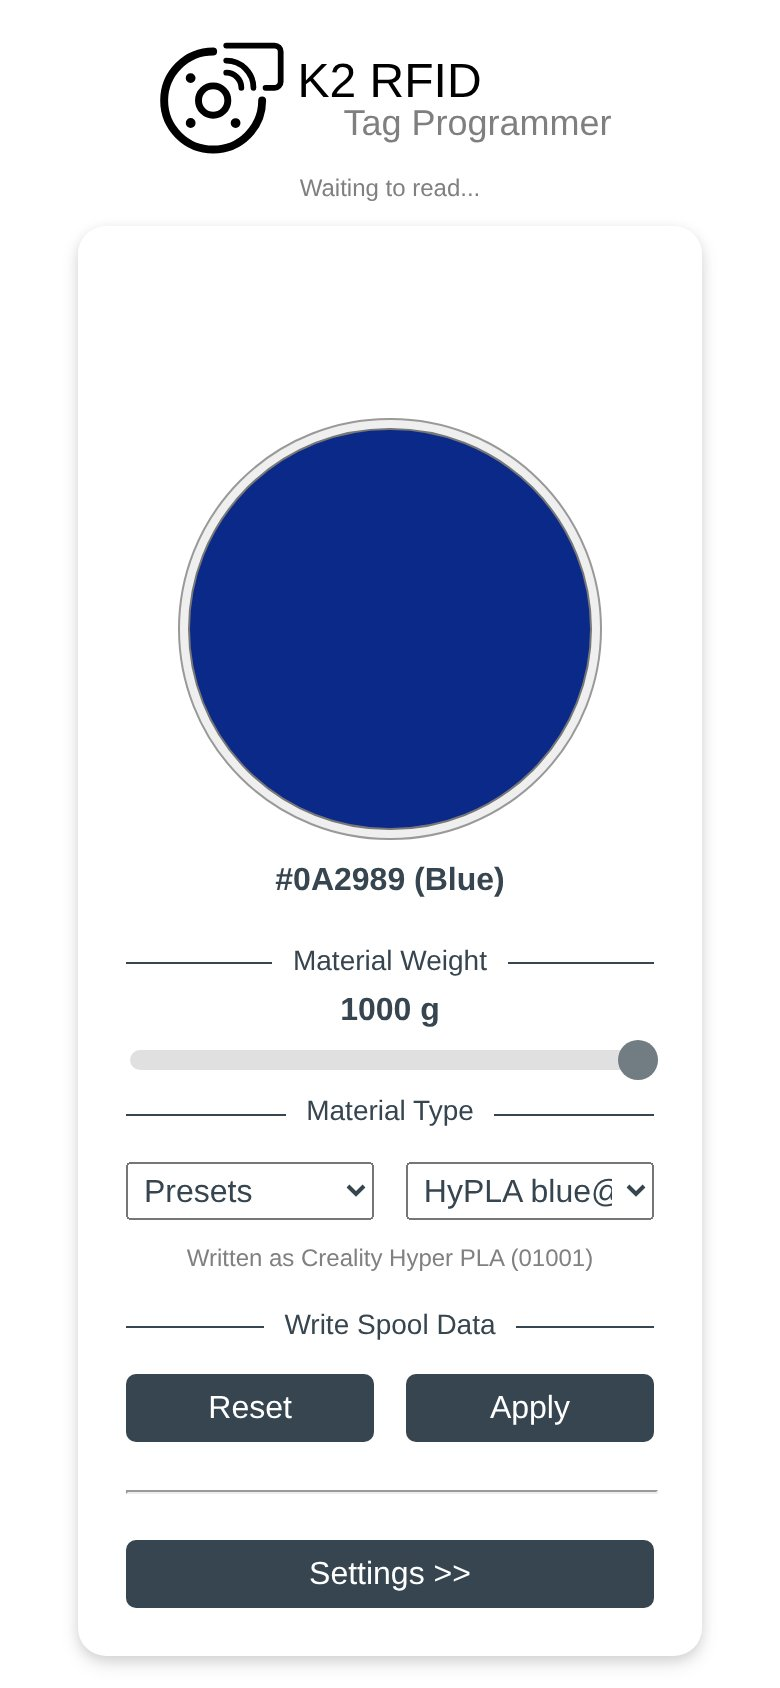
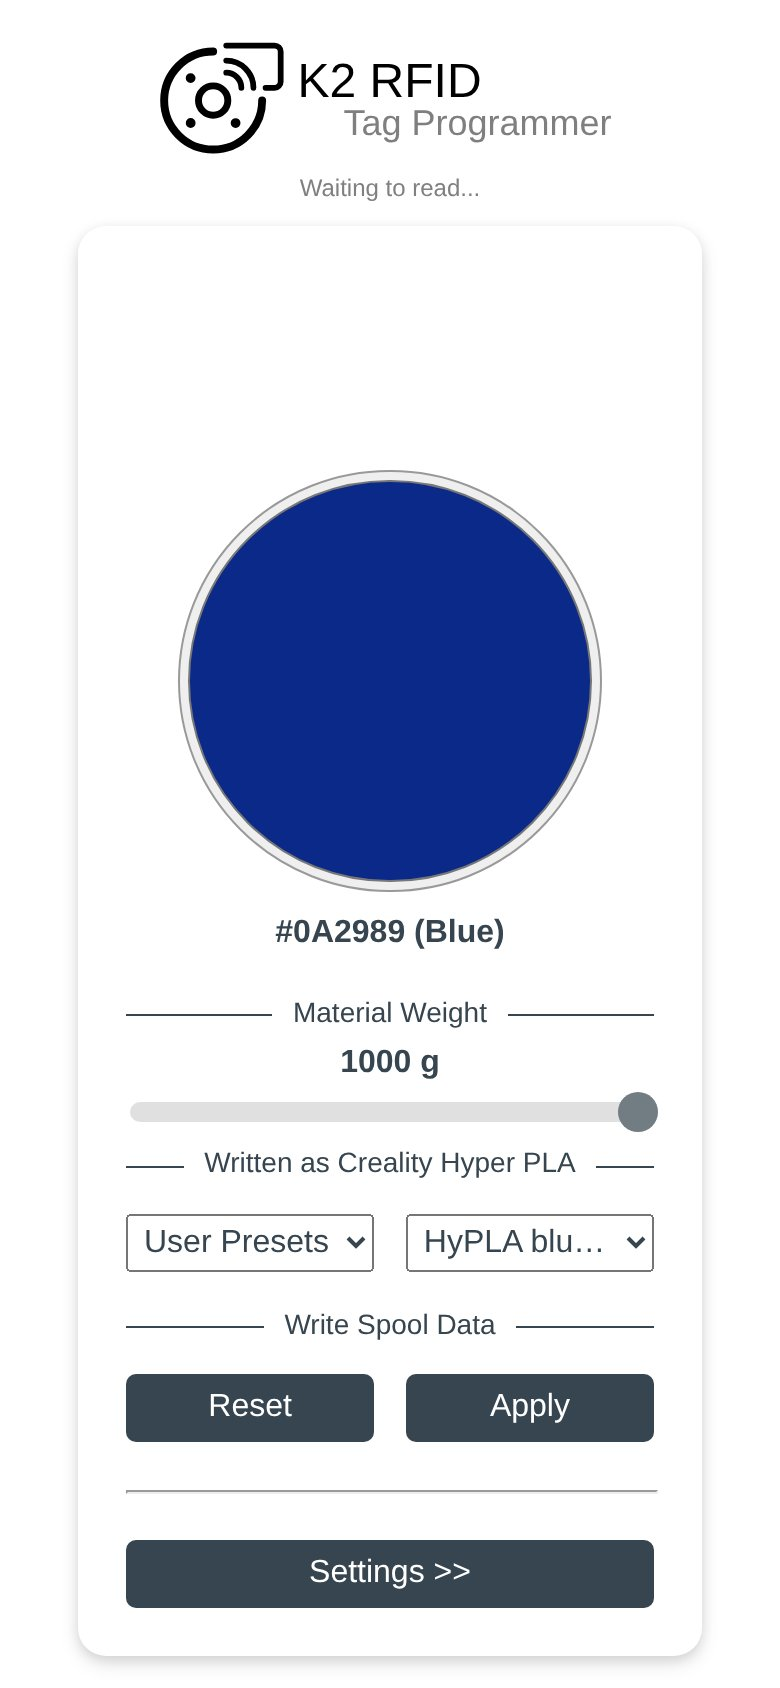
v1.4.0: User Presets category, compact layout, static-stack variants in every release

diff --git a/web/src/main.js b/web/src/main.js
@@ -127,11 +127,13 @@ function renderTypes(brand, key = spool.key) {
     spool.type = materials[0]?.id ?? spool.type
   }
   $('type').value = key
-  // a preset is written as its base material (tags only store the material id)
+  // a user preset is written as its base material (tags only store the material id),
+  // which is shown in the heading instead of an extra line
   const preset = brand === PRESETS && db.find(key)?.material
   const base = preset && db.find(preset.id)
-  $('type-hint').hidden = !preset
-  if (preset) $('type-hint').textContent = `Written as ${base ? `${base.brand} ${base.material.name}` : 'material'} (${preset.id})`
+  $('type-heading').textContent = preset
+    ? `Written as ${base ? `${base.brand} ${base.material.name}` : preset.id}`
+    : 'Material Type'
   renderColors()
 }
 

diff --git a/web/index.html b/web/index.html
@@ -36,12 +36,11 @@
           <output id="weight-text" for="weight" class="value-text">1000 g</output>
           <input id="weight" type="range" min="50" max="1000" step="50" value="1000" class="slider" />
 
-          <h2><span>Material Type</span></h2>
+          <h2><span id="type-heading">Material Type</span></h2>
           <div class="row">
             <select id="brand" aria-label="Brand"></select>
             <select id="type" aria-label="Material"></select>
           </div>
-          <p id="type-hint" class="hint" hidden></p>
 
           <h2><span>Write Spool Data</span></h2>
           <div class="row">

diff --git a/web/src/materials.js b/web/src/materials.js
@@ -8,7 +8,7 @@ const FALLBACK = {
 }
 
 // category in the brand list holding the user presets of a database
-export const PRESETS = 'Presets'
+export const PRESETS = 'User Presets'
 
 export class MaterialDb {
   version = undefined

diff --git a/web/src/style.css b/web/src/style.css
@@ -115,6 +115,13 @@ hr {
   min-width: 0;
 }
 
+/* long names (e.g. user presets) must not widen the page */
+.row > select {
+  flex-basis: 0;
+  width: 100%;
+  text-overflow: ellipsis;
+}
+
 .row.tight {
   gap: 8px;
 }

diff --git a/README.md b/README.md
@@ -45,7 +45,7 @@ Just select the color by hitting the large color circle to select the color of c
 
 The material is chosen by brand and type. The brands come from the material database: Creality, Generic, eSUN and Polymaker are included by default, and with a database copied from your printer you'll also find your own presets.
 
-A database copied from your printer also contains the filament presets you created in Creality Print (e.g. `HyPLA blue@K2 Plus 0.4 nz - RW`, or custom filaments of other brands). They are listed in their own category `Presets`. A preset is only a label: the tag stores the material id, not the preset, so it's written as the material the preset is based on, which is shown below the selection (e.g. `Written as Creality Hyper PLA (01001)`). The printer then shows the spool as that material.
+A database copied from your printer also contains the filament presets you created in Creality Print (e.g. `HyPLA blue@K2 Plus 0.4 nz - RW`, or custom filaments of other brands such as `JAYO PETG ...`). They are listed in their own category `User Presets`, each name once. A preset is only a label: the tag stores the material id, not the preset, so it's written as the material the preset is based on, which is shown in the heading above the selection (e.g. `Written as Creality Hyper PLA`). The printer then shows the spool as that material.
 
 <p align="center">
     <img src="assets/doc/Screenshot_Presets.jpeg" alt="screenshot presets" style="width:50%; height:auto;" >
@@ -108,7 +108,7 @@ This file is also the one containing custom materials you have added to your pri
 
 The web app has three pages (`Main`, `Settings` and `Database`), each of them fits on one screen without scrolling - on small screens the layout gets more compact and less important texts are hidden. The `Settings` page holds the switches for the beeper, for writing only empty tags and for cloning the serial number, and the buttons to restart the thingy, enter SafeBoot (for firmware updates), reset the WiFi credentials and open the web log.
 
-At the bottom, `Thingy Info` shows the board the firmware was built for, the firmware and web app versions, the chip (model, revision, flash size), the PSRAM and the free internal RAM with its largest free block (hover or long-press an entry for details). `Update Database` downloads the database via SSH, which needs a block of 24 KB of internal RAM (see "block"). The same data is available as JSON at `http://k2rfid.local/api/system/info`.
+At the bottom, `Thingy Info` shows the board the firmware was built for, the firmware and web app versions, the chip (model, revision, flash size), the PSRAM and the free internal RAM with its largest free block (hover or long-press an entry for details). `Update Database` downloads the database via SSH, which needs a block of 24 KB of internal RAM (see "block"). If it fails with "Not enough memory to start the download", flash `<board>_static-stack.firmware.bin` from the release, which reserves this block right at boot (shown as `+24 KB SSH`). The same data is available as JSON at `http://k2rfid.local/api/system/info`.
 
 <p align="center">
     <img src="assets/doc/Screenshot_Settings.jpeg" alt="screenshot settings" style="width:50%; height:auto;" >
@@ -240,7 +240,7 @@ What happens during a build:
 GitHub Actions build every push and pull request:
 
 - `.github/workflows/firmware.yml` builds the firmware (including the factory image) for `lolin_s2_mini`, `lolin_s2_mini_extled` and `esp32_s3_tiny` and provides the binaries as artifacts. It also builds `lolin_s2_mini` and `lolin_s2_mini_extled` with the build flag `PRINTER_SSH_STATIC_STACK`, which reserves the stack of the SSH download right after startup instead of allocating it per download.
-- `.github/workflows/release.yml` publishes a release. Add a `## vX.Y.Z` section to `CHANGELOG.md` and bump `APP_VERSION` in `platformio.ini`, then start the workflow under *Actions → Release → Run workflow* with the version (e.g. `v1.2.0`). It builds all boards, creates the tag and the release with the notes from `CHANGELOG.md`, and attaches `<board>.firmware.factory.bin` (for esptool) and `<board>.firmware.bin` (for OTA/SafeBoot updates). A version with a suffix (e.g. `v1.3.1-beta`) is published as pre-release and additionally gets `<board>_static-stack` variants built with `PRINTER_SSH_STATIC_STACK`.
+- `.github/workflows/release.yml` publishes a release. Add a `## vX.Y.Z` section to `CHANGELOG.md` and bump `APP_VERSION` in `platformio.ini`, then start the workflow under *Actions → Release → Run workflow* with the version (e.g. `v1.2.0`). It builds all boards, creates the tag and the release with the notes from `CHANGELOG.md`, and attaches `<board>.firmware.factory.bin` (for esptool) and `<board>.firmware.bin` (for OTA/SafeBoot updates). Every release also gets `<board>_static-stack` variants built with `PRINTER_SSH_STATIC_STACK` (the memory for the database download is reserved at boot). A version with a suffix (e.g. `v1.3.1-beta`) is published as pre-release.
 - `.github/workflows/pages.yml` builds the web app and, on `main`, publishes it on GitHub Pages.
 - Dependabot (`.github/dependabot.yml`) proposes updates for the npm packages and GitHub Actions monthly. PlatformIO libraries (`lib_deps` in `platformio.ini`) are pinned and need to be updated by hand.
 

diff --git a/CHANGELOG.md b/CHANGELOG.md
@@ -1,12 +1,22 @@
 # Changelog
 
-## Unreleased
+## v1.4.0
+
+Includes everything from [v1.3.1-beta](#v131-beta) (memory diagnostics, the `_static-stack` variant and the web log fixes).
 
 ### New
 
-- User presets from a database copied from the printer (filament profiles that Creality Print syncs to the printer, e.g. `HyPLA blue@K2 Plus 0.4 nz - RW` or `JAYO PETG ...`) are listed in their own category `Presets`, each name once. A tag only stores the material id, so a preset is written as the material it's based on; the selection shows which one (#8).
+- User presets from a database copied from the printer (filament profiles that Creality Print syncs to the printer, e.g. `HyPLA blue@K2 Plus 0.4 nz - RW` or `JAYO PETG ...`) are listed in their own category `User Presets`, each name once. A tag only stores the material id, so a preset is written as the material it's based on; the heading above the selection shows which one (#8).
 - The presets count on the `Database` page counts each preset once (Creality Print can sync the same preset several times).
+
+### Fixes
+
 - The material itself is always preferred over its presets, also when a preset comes first in the database or its name has no `@`.
+- Long material names no longer widen the page.
+
+### Installation
+
+Updating via SafeBoot/OTA with `<board>.firmware.bin` is enough (WiFi credentials and the material database are kept). If `Update Database` reports "Not enough memory to start the download", use `<board>_static-stack.firmware.bin` instead, which reserves the memory for the download at boot (see [v1.3.1-beta](#v131-beta)). For a fresh board use the matching `.firmware.factory.bin` with esptool. Boards: `lolin_s2_mini`, `lolin_s2_mini_external_WS2812b`, `esp32_s3_tiny`.
 
 ## v1.3.1-beta
 
